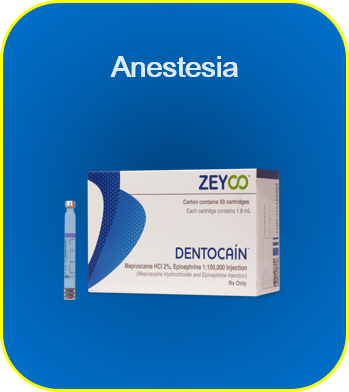
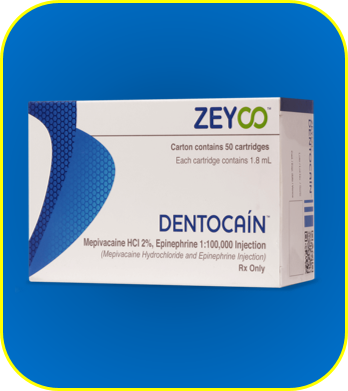
cambios en pagina

diff --git a/index.html b/index.html
@@ -120,8 +120,8 @@
 
         <div class="row section-header" data-aos="fade-up">
             <div class="col-full">
-                <h3 class="subhead"> Tenemos el mejor instrumental dental de las primeras marcas a precios accesibles</h3>
-                <h1 class="display-1"> ¡OFERTAS!</h1>
+                <h3 class="subhead"> Tenemos lo mejor en material e instrumental dental a los mejores precios</h3>
+            <h1 class="display-1"></h1>
             </div>
         </div> <!-- end section-header -->
 
@@ -143,7 +143,7 @@
 
                 <div class="col-block process__col" data-item="1" data-aos="fade-up">
                     <div class="process__text">
-                        <h4>Anestesia zeyco </h4>
+                        <h4>Anestesia </h4>
 
                         <p>
                          <img src="images/destacados/anestecia.png">
@@ -152,87 +152,87 @@
                 </div>
                 <div class="col-block process__col" data-item="2" data-aos="fade-up">
                     <div class="process__text">
-                        <h4>Marca sunset</h4>
+                        <h4>Anestesia</h4>
                         <p>
-                            <img src="images/destacados/bata.png">
+                            <img src="images/destacados/anestecia1.png">
                         </p>
                     </div>
                 </div>
                 <div class="col-block process__col" data-item="3" data-aos="fade-up">
                     <div class="process__text">
-                        <h4>Brackets</h4>
+                        <h4>Material de impresión</h4>
 
                         <p>
-                            <img src="images/destacados/Imagen3.png">
+                            <img src="images/destacados/impresion.png">
                         </p>
                     </div>
                 </div>
                 <div class="col-block process__col" data-item="4" data-aos="fade-up">
                     <div class="process__text">
-                        <h4>Guantes de nitrilo</h4>
+                        <h4>Material de impresión</h4>
 
                         <p>
-                            <img src="images/destacados/Imagen5.png">
+                            <img src="images/destacados/anestecia2.png">
                         </p>
                     </div>
                 </div>
 
                 <div class="col-block process__col" data-item="5" data-aos="fade-up">
                     <div class="process__text">
-                        <h4>Lámpara Blue phase ivoclar </h4>
+                        <h4>Material de impresión</h4>
 
                         <p>
-                            <img src="images/destacados/lampara.png">
+                            <img src="images/destacados/impresion1.png">
                         </p>
                     </div>
                 </div>
 
                 <div class="col-block process__col" data-item="6" data-aos="fade-up">
                     <div class="process__text">
-                        <h4>Virtual material de impresión </h4>
+                        <h4>Resina </h4>
 
                         <p>
-                            <img src="images/destacados/ivoclar.png">
+                            <img src="images/destacados/resina1.png">
                         </p>
                     </div>
                 </div>
 
                 <div class="col-block process__col" data-item="7" data-aos="fade-up">
                     <div class="process__text">
-                        <h4>Nsk</h4>
+                        <h4>Resina</h4>
 
                         <p>
-                            <img src="images/destacados/Imagen10.png">
+                            <img src="images/destacados/resina2.png">
                         </p>
                     </div>
                 </div>
 
                 <div class="col-block process__col" data-item="8" data-aos="fade-up">
                     <div class="process__text">
-                        <h4>Limas </h4>
+                        <h4>Resina Z 350 </h4>
 
                         <p>
-                            <img src="images/destacados/Imagen11.png">
+                            <img src="images/destacados/resina4.png">
                         </p>
                     </div>
                 </div>
 
                 <div class="col-block process__col" data-item="9" data-aos="fade-up">
                     <div class="process__text">
-                        <h4>Biscem </h4>
+                        <h4>Cemento de ionomeno de vidrio </h4>
 
                         <p>
-                            <img src="images/destacados/Imagen12.png">
+                            <img src="images/destacados/vidrio1.png">
                         </p>
                     </div>
                 </div>
 
                 <div class="col-block process__col" data-item="10" data-aos="fade-up">
                     <div class="process__text">
-                        <h4>Maillefer </h4>
+                        <h4>Cemento de ionomeno de vidrio</h4>
 
                         <p>
-                            <img src="images/destacados/Imagen13.png">
+                            <img src="images/destacados/vidrio2.png">
                         </p>
                     </div>
                 </div>
@@ -384,7 +384,7 @@
         <div class="row section-header" data-aos="fade-up">
             <div class="col-full">
                 <h2 class="subhead">PRODUCTOS</h2>
-                <h1 class="display-1">Datti Depósito Dental
+                <h1 class="display-1">Depósito Dental Datty
                     ofrece una amplia gama de productos para odontologos y técnicos dentales.</h1>
             </div>
         </div> <!-- end section-header -->
@@ -749,7 +749,7 @@
     <div id="preloader" class="w3-cell-row">
         <div id="loader" class="contedorloader">
                 <br>   <br>  
-                <img class="iconoloader" src="images/inicioIcono.gif" >
+                <!-- <img class="iconoloader" src="images/inicioIcono.gif" > -->
         <p class="textos">Cargando......</p>  
         </div>
         <!-- <div>

diff --git a/css/main.css b/css/main.css
@@ -1291,7 +1291,7 @@ input::-moz-focus-inner {
 
 .subhead {
   font-family: "metropolis-semibold", sans-serif;
-  font-size: 1.6rem;
+  font-size: 3.6rem;
   line-height: 1.3125;
   text-transform: uppercase;
   letter-spacing: 0.25rem;
@@ -1300,7 +1300,7 @@ input::-moz-focus-inner {
   margin-bottom: 2.1rem;
 }
 .subhead::before {
-  content: "/ ";
+  content: " ";
 }
 
 /* ------------------------------------------------------------------- 
